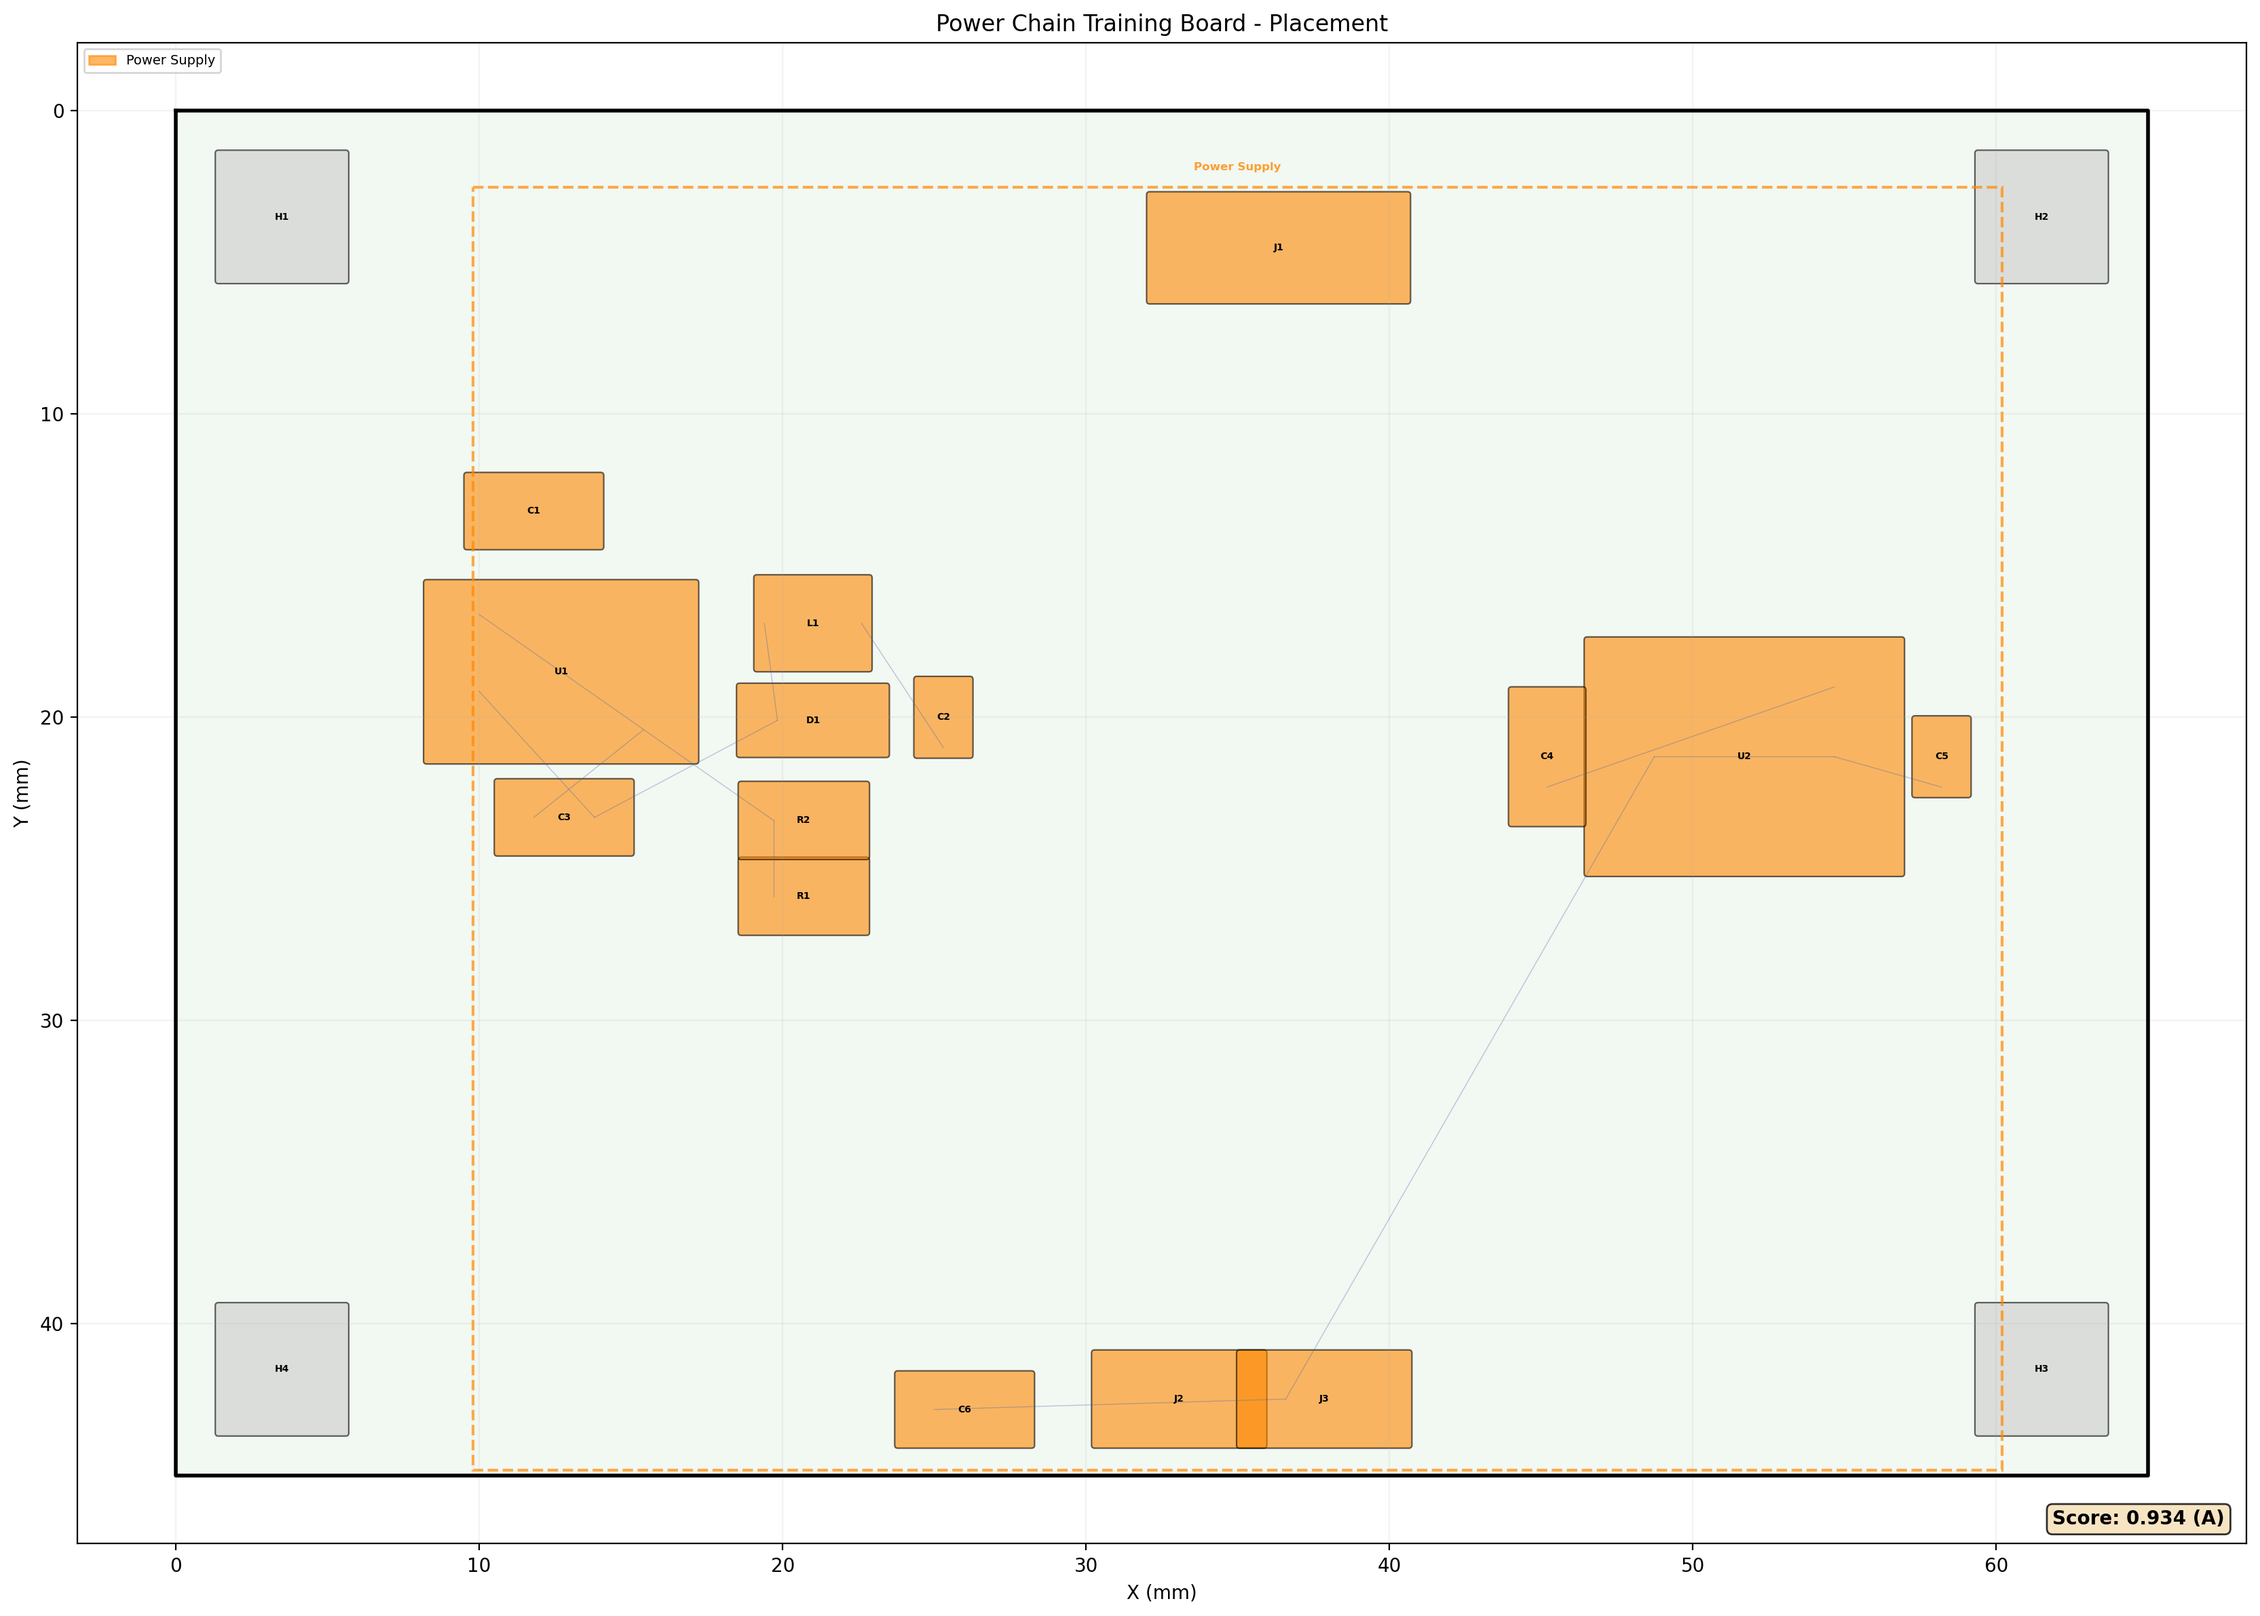
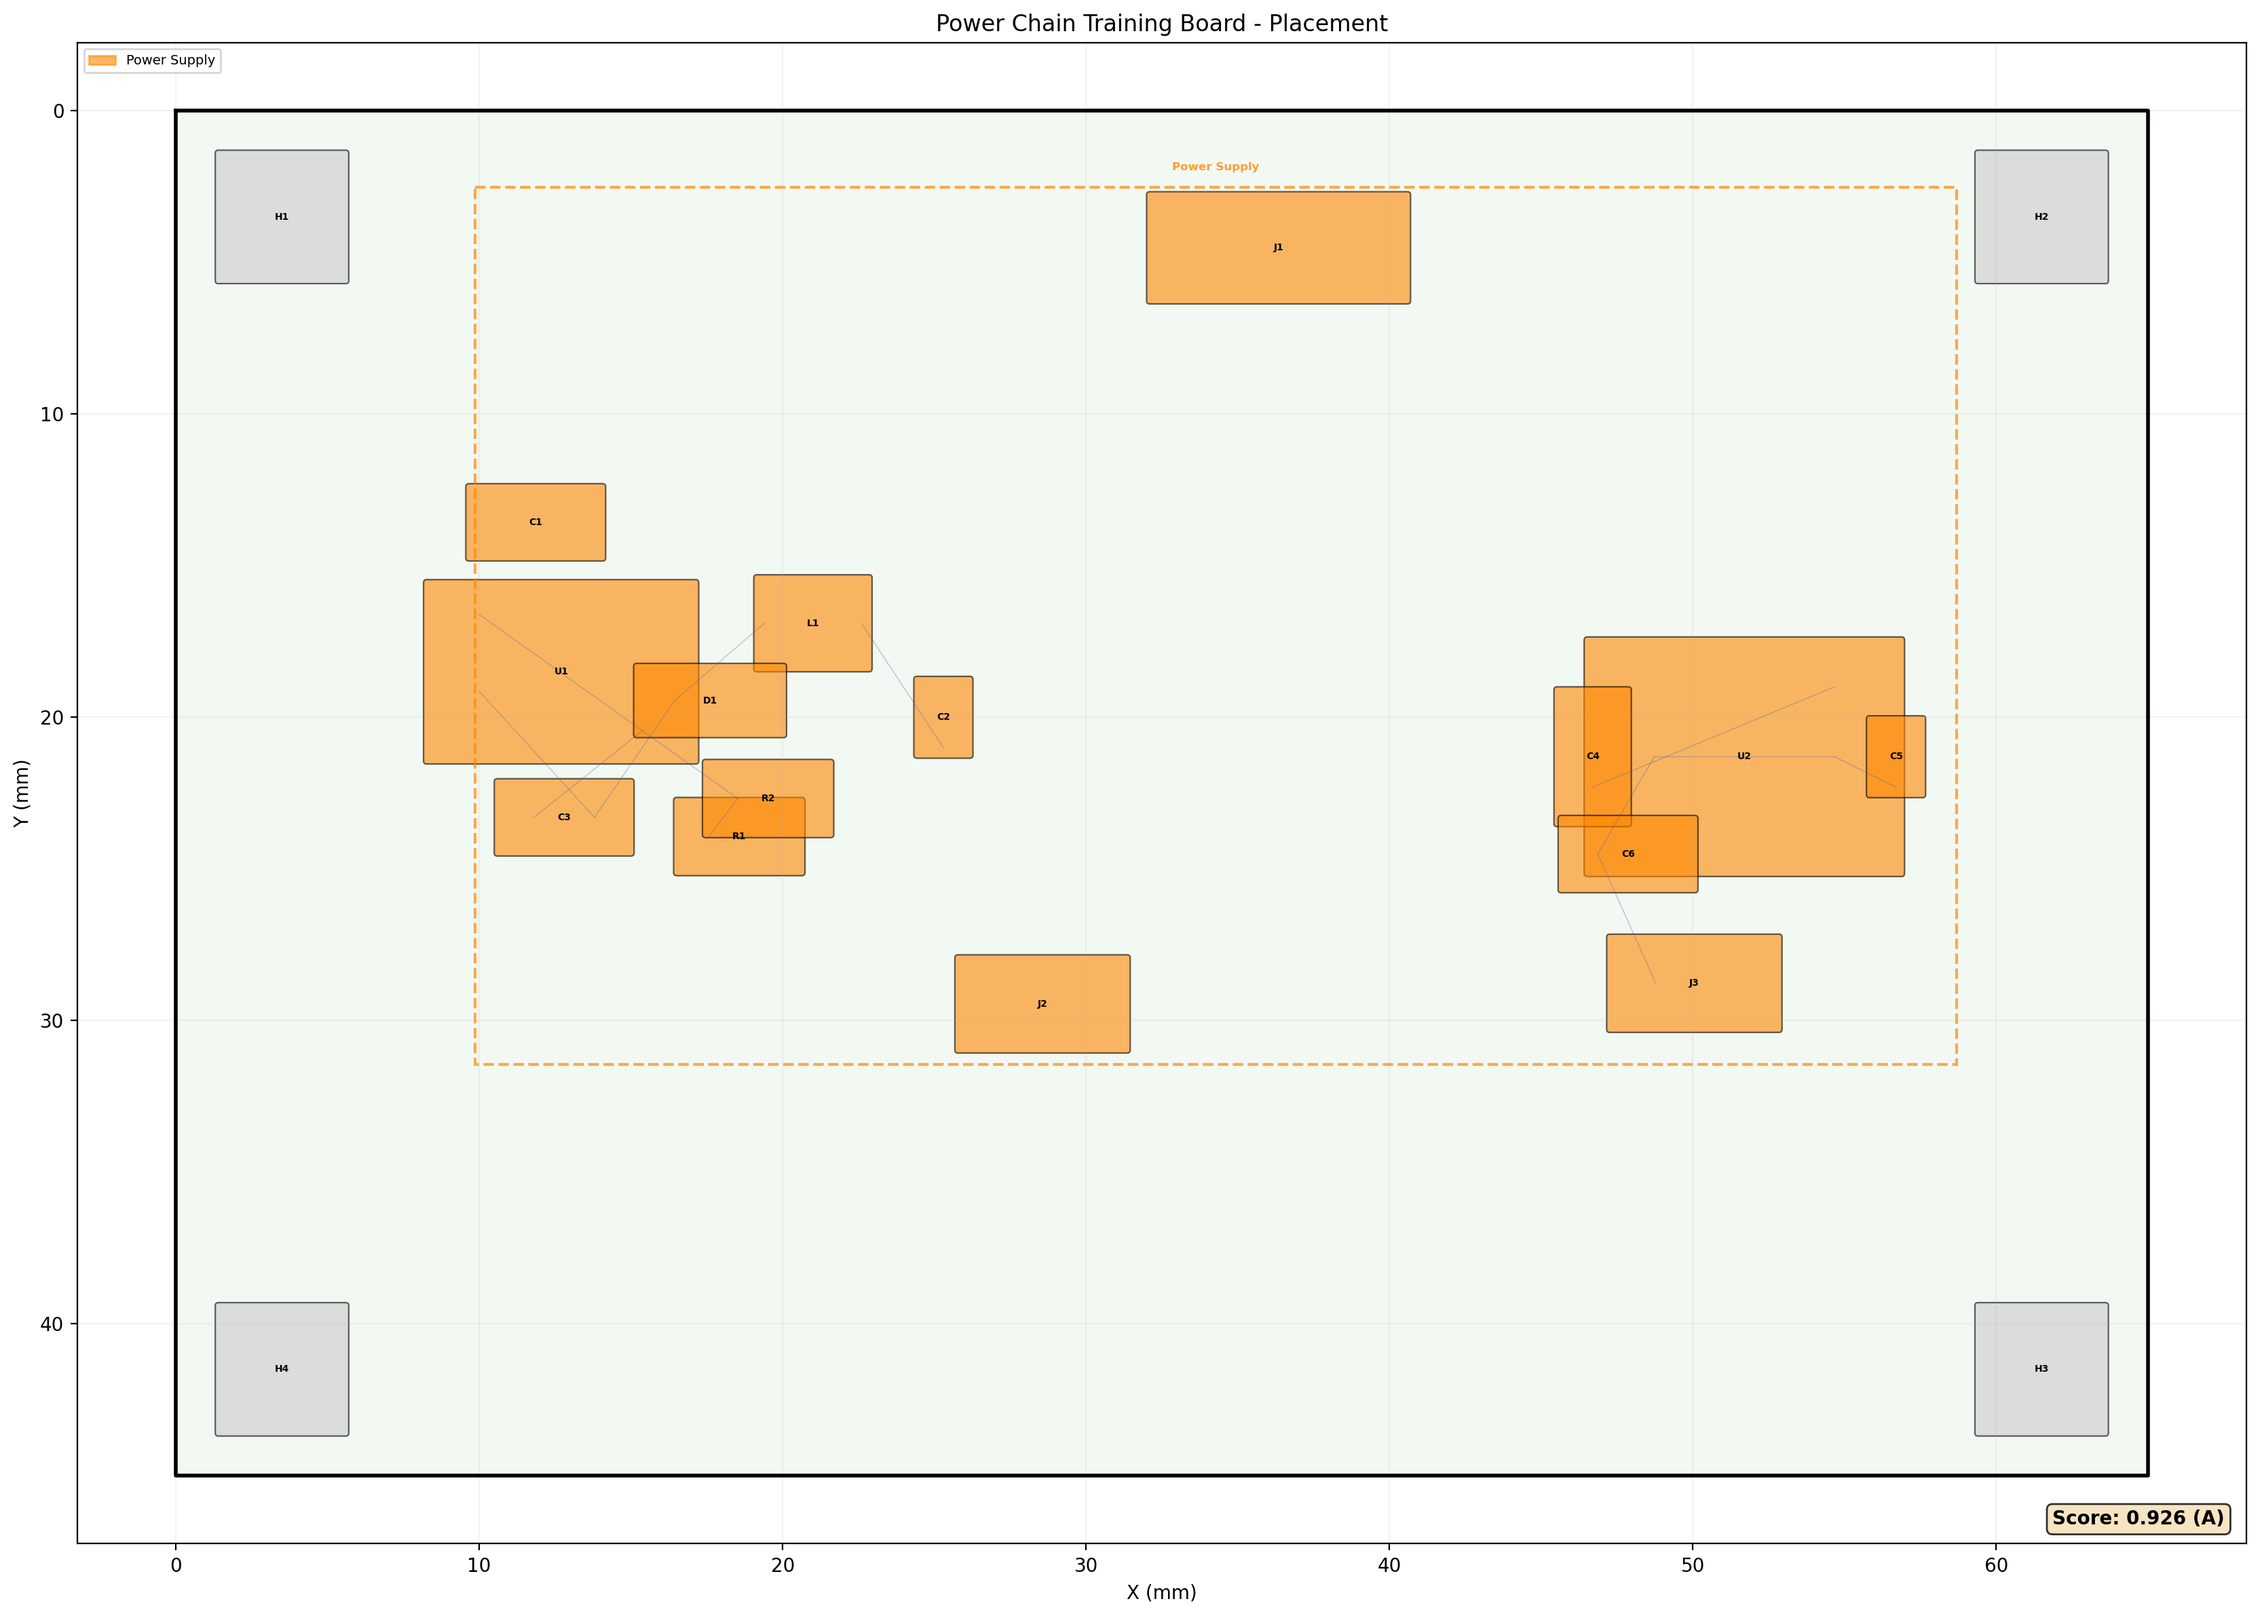
pcb-review: iter1 — add proximity re-enforcement after all phases, update best_positions

diff --git a/src/kicad_pipeline/optimization/placement_optimizer.py b/src/kicad_pipeline/optimization/placement_optimizer.py
@@ -291,6 +291,35 @@ def optimize_placement_ee(
     _phase_mcu_decoupling_repull(ctx)
     _phase_final_clamp(ctx)
 
+    # Re-enforce proximity constraints after ALL phases are done.
+    # Earlier constraint enforcement uses intermediate positions (before
+    # power chain flow, MCU group, etc.). This final pass uses the real
+    # positions and pulls drifted components back to their targets.
+    if ctx.constraints and ctx.constraints.proximity:
+        import math as _m
+        _log.info("  Final constraint re-enforcement")
+        for prox in ctx.constraints.proximity:
+            if prox.ref not in ctx.positions or prox.target_ref not in ctx.positions:
+                continue
+            rx, ry, rrot = ctx.positions[prox.ref]
+            tx, ty, _ = ctx.positions[prox.target_ref]
+            dist = _m.sqrt((rx - tx) ** 2 + (ry - ty) ** 2)
+            if dist <= prox.max_distance_mm:
+                continue
+            ratio = prox.max_distance_mm / max(dist, 0.1)
+            nx = tx + (rx - tx) * ratio
+            ny = ty + (ry - ty) * ratio
+            b = ctx.bounds
+            w, h = ctx.fp_sizes.get(prox.ref, (2.0, 1.0))
+            nx = max(b[0] + w / 2 + 1, min(b[2] - w / 2 - 1, nx))
+            ny = max(b[1] + h / 2 + 1, min(b[3] - h / 2 - 1, ny))
+            ctx.positions[prox.ref] = (nx, ny, rrot)
+            # Also update best_positions if it exists (final clamp stores there)
+            if hasattr(ctx, "best_positions") and prox.ref in ctx.best_positions:
+                ctx.best_positions[prox.ref] = (nx, ny, rrot)
+            _log.info("    %s: re-pulled to (%.1f, %.1f) [near %s]",
+                      prox.ref, nx, ny, prox.target_ref)
+
     return _phase_build_final(ctx)
 
 
